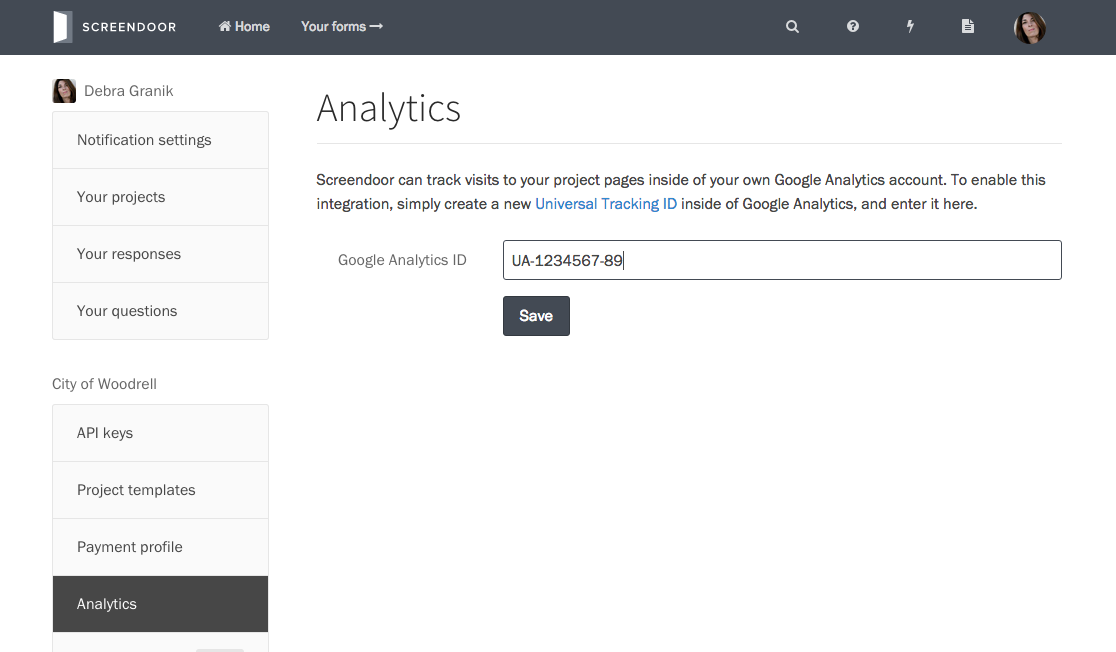
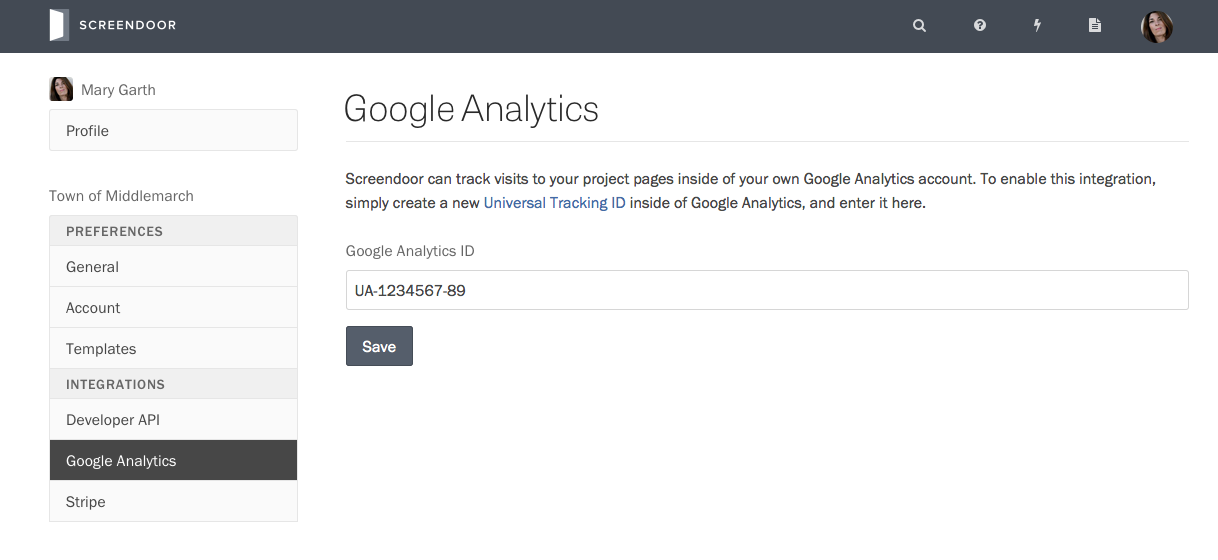
Update analytics screenshot and copy

diff --git a/contents/articles/screendoor/integrations/analytics.md b/contents/articles/screendoor/integrations/analytics.md
@@ -17,7 +17,7 @@ Copy the tracking code that appears.
 
 ![Your Google Analytics tracking code.](../images/analytics_2.png)
 
-In Screendoor, click on your avatar in the navigation bar, select "Settings" from the dropdown, and choose "Analytics" from the sidebar. Under "Google Analytics ID," paste in your tracking code and press "Save."
+In Screendoor, click on your avatar in the navigation bar, select "Your organization" from the dropdown, and choose "Google Analytics" from the sidebar. Under "Google Analytics ID," paste in your tracking code and press "Save."
 
 ![Adding your Google Analytics tracking code to Screendoor.](../images/analytics_3.png)
 
